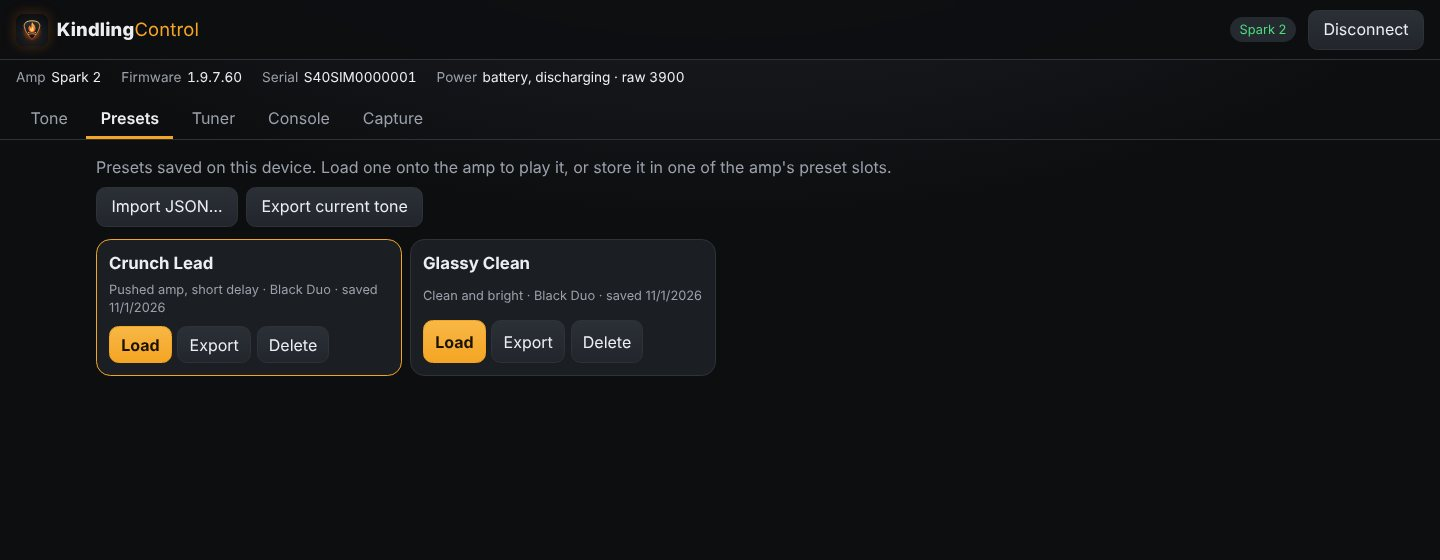
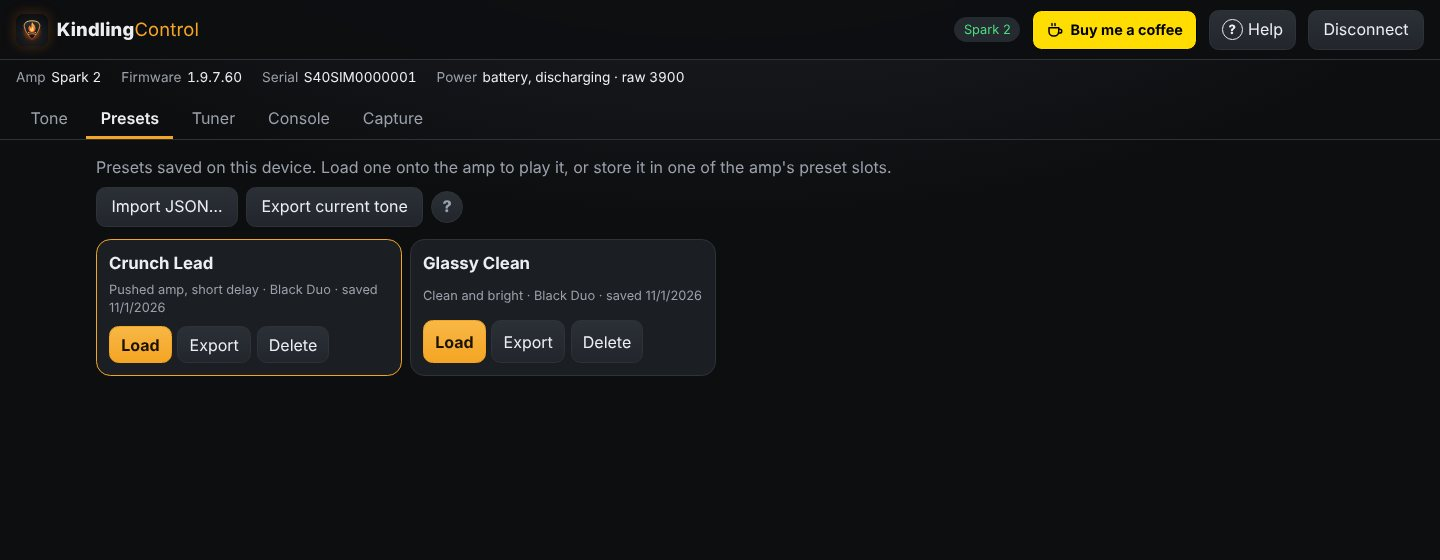
Add a "Buy me a coffee" link to the README, landing page and apps
Gives people who find KindlingControl useful an easy way to support it.

The landing page and the web/desktop app use a plain link styled like
the Buy Me a Coffee button rather than its embed script: src/ loads no
third-party code and has to work offline, and an outside script has no
business running in a page with Bluetooth access. The README uses the
official button image.

The Android and iOS apps hide the link, because store payment rules
restrict donation links. To keep the extra button from pushing Connect
off-screen on phones, the app top bar and the landing page header show
the logo without the wordmark at narrow widths. Screenshots re-captured.

Claude-Session: https://claude.ai/code/session_01LYWPoZvU7d2qJnBQb5Zzwf

Changed region(s): [[0.6562, 0.0, 0.9062, 0.0911], [0.2812, 0.3339, 0.3438, 0.3946]]

diff --git a/src/app/styles.css b/src/app/styles.css
@@ -135,7 +135,7 @@ input.switch:disabled { opacity: 0.45; cursor: not-allowed; }
 .brand img { inline-size: 2rem; block-size: 2rem; border-radius: 0.5rem; box-shadow: 0 0 14px rgb(255 138 31 / 0.25); }
 .brand b { font-weight: 400; color: var(--accent); }
 @media (width < 420px) { .brand { font-size: 1rem; } .brand img { inline-size: 1.75rem; block-size: 1.75rem; } }
-@media (width < 380px) { .brand > span { display: none; } .topbar { gap: 0.5rem; } } /* smallest phones: logo only */
+@media (width < 480px) { .brand > span { display: none; } .topbar { gap: 0.5rem; } } /* phones: logo only, so the buttons fit */
 
 .pill {
   font-size: 0.8rem; padding: 0.2rem 0.6rem; border-radius: 999px;
@@ -619,3 +619,15 @@ dialog.help-dialog[open] { display: flex; }
 .toast { display: flex; align-items: center; gap: 0.75rem; flex-wrap: wrap; }
 .toast[hidden] { display: none; }
 .toast-action { min-height: 2.1rem; padding: 0.2rem 0.75rem; flex: none; }
+
+/* ---- buy me a coffee (top bar; web and desktop only) ------------------------------- */
+
+.coffee-btn {
+  flex: none; display: inline-flex; align-items: center; gap: 0.4rem;
+  min-height: 2.5rem; padding: 0.3rem 0.8rem; border-radius: 0.6rem;
+  font-weight: 700; font-size: 0.9rem; text-decoration: none; white-space: nowrap;
+  color: #000; background: #ffdd00; border: 1px solid #000;
+}
+.coffee-btn:hover { color: #000; filter: brightness(1.06); }
+.coffee-btn[hidden] { display: none; }
+@media (width < 820px) { .coffee-text { display: none; } .coffee-btn { padding-inline: 0.6rem; } }

diff --git a/site/site.css b/site/site.css
@@ -58,7 +58,8 @@ a:hover { color: #ffc861; }
 .nav nav { display: flex; gap: 1.25rem; margin-inline-start: auto; }
 .nav nav a { color: var(--muted); text-decoration: none; font-weight: 600; font-size: 0.95rem; }
 .nav nav a:hover { color: var(--text); }
-@media (width < 820px) { .nav nav { display: none; } .nav .btn { margin-inline-start: auto; } }
+.nav-actions { display: flex; align-items: center; gap: 0.6rem; }
+@media (width < 820px) { .nav nav { display: none; } .nav-actions { margin-inline-start: auto; } }
 
 /* ---- buttons ----------------------------------------------------------------- */
 
@@ -205,3 +206,11 @@ a:hover { color: #ffc861; }
 .to-top[hidden] { display: none; }
 @media (prefers-reduced-motion: reduce) { .to-top, .to-top.show { transition: none; } }
 .copyright { color: var(--text); }
+
+/* buy me a coffee (header) */
+.btn-coffee { gap: 0.4rem; color: #000; background: #ffdd00; border-color: #000; }
+.btn-coffee:hover { color: #000; border-color: #000; filter: brightness(1.06); }
+.btn-coffee { white-space: nowrap; }
+@media (width < 560px) or ((width >= 820px) and (width < 1080px)) { .btn-coffee .coffee-text { display: none; } .btn-coffee { padding-inline: 0.65rem; } }
+.nav-actions .btn { white-space: nowrap; }
+@media (width < 440px) { .nav .brand > span { display: none; } } /* phones: logo only, so both header buttons fit */

diff --git a/src/index.html b/src/index.html
@@ -19,6 +19,7 @@
   <header class="topbar">
     <h1 class="brand"><img src="icon.svg" alt="" width="32" height="32"><span>Kindling<b>Control</b></span></h1>
     <span id="status" class="pill" data-state="idle">Not connected</span>
+    <a id="coffee" class="coffee-btn" href="https://www.buymeacoffee.com/jerdog" target="_blank" rel="noopener" title="Buy me a coffee" aria-label="Buy me a coffee (opens buymeacoffee.com)"><svg viewBox="0 0 24 24" width="18" height="18" aria-hidden="true" fill="none" stroke="currentColor" stroke-width="2" stroke-linecap="round" stroke-linejoin="round"><path d="M4 9h13v5a6 6 0 0 1-6 6h-1a6 6 0 0 1-6-6z"/><path d="M17 11h1.5a2.5 2.5 0 0 1 0 5H16.5"/><path d="M8 3.5c-.6.9.6 1.6 0 2.5M12 3.5c-.6.9.6 1.6 0 2.5"/></svg><span class="coffee-text">Buy me a coffee</span></a>
     <button type="button" class="help-btn" data-help="" aria-label="Help: user guide"><span aria-hidden="true">?</span><span class="help-btn-text">Help</span></button>
     <button id="connect" class="primary" type="button">Connect</button>
   </header>

diff --git a/site/index.html b/site/index.html
@@ -29,7 +29,10 @@
       <a href="#credits">How it works</a>
       <a href="#faq">FAQ</a>
     </nav>
-    <a class="btn btn-primary btn-small" href="app/">Open the app</a>
+    <div class="nav-actions">
+      <a class="btn btn-small btn-coffee" href="https://www.buymeacoffee.com/jerdog" target="_blank" rel="noopener" title="Buy me a coffee" aria-label="Buy me a coffee (opens buymeacoffee.com)"><svg viewBox="0 0 24 24" width="18" height="18" aria-hidden="true" fill="none" stroke="currentColor" stroke-width="2" stroke-linecap="round" stroke-linejoin="round"><path d="M4 9h13v5a6 6 0 0 1-6 6h-1a6 6 0 0 1-6-6z"/><path d="M17 11h1.5a2.5 2.5 0 0 1 0 5H16.5"/><path d="M8 3.5c-.6.9.6 1.6 0 2.5M12 3.5c-.6.9.6 1.6 0 2.5"/></svg><span class="coffee-text">Buy me a coffee</span></a>
+      <a class="btn btn-primary btn-small" href="app/">Open the app</a>
+    </div>
   </header>
 
   <main id="main">

diff --git a/src/guide/index.html b/src/guide/index.html
@@ -274,7 +274,12 @@
         <h2>Getting help</h2>
         <p>
           Found a bug, or something doesn't work with your amp? Please <a href="https://github.com/bluedog-consulting/kindling-control-spark-amps/issues" target="_blank" rel="noopener">open an issue on GitHub</a>.
+        </p>
+        <p>
           Include your amp model, your device and browser, and any red lines from the Console.
+        </p>
+        <p>
+          If KindlingControl is useful to you, you can support it with the yellow <strong>Buy me a coffee</strong> button in the top bar of the web and desktop apps.
         </p>
         <p class="fine">
           © 2026 blueDog Consulting and Jeremy Meiss. KindlingControl is designed, built and maintained by blueDog Consulting and is free software under the GNU General Public License v3 (or later).

diff --git a/src/app/app.js b/src/app/app.js
@@ -554,6 +554,8 @@ document.addEventListener('click', (e) => {
 $('#help-close').addEventListener('click', () => $('#help-dialog').close());
 // The native apps' web views can't open extra windows; keep the guide in the panel there.
 if (CapacitorBleTransport.isAvailable()) $('#help-newtab').hidden = true;
+// No donation link inside the store apps (app store payment rules); web and desktop only.
+if (CapacitorBleTransport.isAvailable()) $('#coffee').hidden = true;
 
 // ---------------------------------------------------------------------------
 // tuner

diff --git a/AGENTS.md b/AGENTS.md
@@ -115,7 +115,7 @@ npm run release:plan -- v0.3.0 v0.2.0   # which apps a tag would rebuild
 - `MockSparkTransport` normalises uploads to canonical order by default (`fixedChain: true`); `fixedChain: false` (`?mock&reorder=1`) keeps them.
 
 **UI (rig):**
-- `rig.js` renders from `state.preset.pedals`: a chain strip (IN → blocks → OUT), the amp as an amp head (chicken-head knobs in `AMP_KNOB_ORDER`), and the other blocks as stompboxes on a pedalboard in two rows: "Into the amp" (the blocks before the amp) and "After the amp". An amp-link badge sits between them, showing the amp's chain position and jumping to the amp head. Each pedal shows its chain position number (1–7). Rows are 3 columns wide (1 below 720px), and pedals in a row stretch so their footswitches line up.
+- `rig.js` renders from `state.preset.pedals`: a chain strip (IN → blocks → OUT), the amp as an amp head (chicken-head knobs in `AMP_KNOB_ORDER`), and the other blocks as stompboxes on a pedalboard in two rows: "Into the amp" (the blocks before the amp) and "After the amp". An amp-link badge sits between them, showing the amp's chain position and jumping to the amp head. Each pedal shows its chain position number (1–7). The top bar shows the logo only below 480px so its buttons fit on phones. Rows are 3 columns wide (1 below 720px), and pedals in a row stretch so their footswitches line up.
 - Every parameter control registers a setter under `"fxIndex:param"`. The amp head, the pedals and knob moves reported by the amp (`rig.updateParam`) all sync through that registry; add new controls the same way instead of querying the DOM. Parameter sends are throttled per parameter (40 ms).
 - The knob (`controls.js`) is a real `<input type="range">`, kept focusable but invisible, with an SVG dial on top. Keyboard and screen readers use the native slider. Pointer: drag up or right to turn, Shift for fine control, double-click to reset to 5.
 - The theme is dark only (`color-scheme: dark`). Pedal colours come from `--pedal-<slot>` tokens. Check phone width (390px) for horizontal overflow after layout changes.
@@ -131,6 +131,7 @@ npm run release:plan -- v0.3.0 v0.2.0   # which apps a tag would rebuild
 
 - `src/guide/index.html` is the user documentation. It ships with every app, so it works offline in the browser, desktop and native apps. When it's shown inside the Help panel (an iframe) it hides its own header; the inline script adds the `embedded` class.
 - The app opens it with `openHelp(section)` in a `<dialog>`, never by navigating away: leaving the page would drop the Bluetooth connection. Anything with `data-help="<section id>"` opens Help at that section (one delegated click handler). `data-help=""` opens the top.
+- **Buy me a coffee** (`#coffee`, https://www.buymeacoffee.com/jerdog) sits in the top bar of the web and desktop apps, the landing page header and the README. It's a plain styled link, not Buy Me a Coffee's embed script: `src/` loads no third-party code and must work offline. `app.js` hides it in the Capacitor apps, because store payment rules restrict donation links; keep it that way.
 - Contextual help links: the top-bar Help button; **?** buttons on the Tone screen, Presets tab, Console, the New/Save dialogs and next to Reorder chain (`rig.js`); text links on the Tuner and Capture tabs and in the unsupported-browser banner; a **Troubleshooting** action on the connection-failed toast (`toast(text, kind, { label, run })`).
 - **Any change to what users see or do must update the guide in the same change.** Keep section ids stable, because the app links to them. `test/help-links.test.js` fails if a help link points at a missing section, or if the guide's contents list has a broken anchor. `check-docs` accepts the guide as documentation.
 - The desktop app opens "Open in a new window" for `kindling://app/guide/` in a separate sandboxed window with no preload. Link and navigation rules apply to every window via `app.on('web-contents-created')`. The native apps hide that link, because their web views can't open windows.

diff --git a/README.md b/README.md
@@ -4,6 +4,8 @@
 
 *The kindling that controls your Spark:* an open controller for Positive Grid Spark amps.
 
+<a href="https://www.buymeacoffee.com/jerdog"><img src="https://cdn.buymeacoffee.com/buttons/v2/default-yellow.png" alt="Buy Me a Coffee" height="60" width="217"></a>
+
 An open replacement for the Positive Grid Spark app. It's a JavaScript implementation of the amp's Bluetooth protocol, with one UI that runs in the browser (over **Web Bluetooth**), as a desktop app, and as an Android or iPad app. There's no account, and it doesn't phone home.
 
 Works with Spark 40, Spark GO, Spark MINI, Spark 2 and Spark NEO. All of them use the same BLE service (`0xFFC0`).
